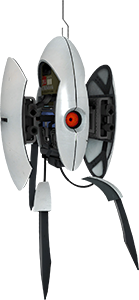
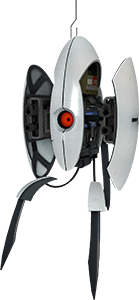
Flipped video, code cleanup

diff --git a/turret-security/site.js b/turret-security/site.js
@@ -1,11 +1,10 @@
-var video = $('video')[0];
 var $motionBox = $('.motion-box');
 var $turret = $('img');
 
 var scale = 10;	// capture resolution over motion resolution
-var isTargetLost = true;
-var isKilled = false;
-
+var isActivated = false;
+var isTargetInSight = false;
+var isKnockedOver = false;
 var lostTimeout;
 
 function initSuccess() {
@@ -17,64 +16,74 @@ function initError() {
 }
 
 function startComplete() {
+	setTimeout(activate, 500);
+}
+
+function activate() {
+	isActivated = true;
 	play('activated');
 }
 
 function capture(payload) {
-	if (isKilled) {
+	if (!isActivated || isKnockedOver) {
 		return;
 	}
 
 	var box = payload.motionBox;
 	if (box) {
-		var left = box.x.min * scale + 1;
+		// video is flipped, so we're positioning from right instead of left
+		var right = box.x.min * scale + 1;
 		var top = box.y.min * scale + 1;
 		var width = (box.x.max - box.x.min) * scale;
 		var height = (box.y.max - box.y.min) * scale;
 
 		$motionBox.css({
 			display: 'block',
-			left: left,
+			right: right,
 			top: top,
 			width: width,
 			height: height
 		});
 
-		if (isTargetLost) {
+		if (!isTargetInSight) {
+			isTargetInSight = true;
 			play('i-see-you');
-			isTargetLost = false;
 		} else {
 			play('fire');
 		}
+
 		clearTimeout(lostTimeout);
 		lostTimeout = setTimeout(declareLost, 2000);
 	}
 
+	// video is flipped, so (0, 0) is at top right
 	if (payload.checkMotionPixel(0, 0)) {
-		killTurret();
+		knockOver();
 	}
+}
+
+function declareLost() {
+	isTargetInSight = false;
+	play('target-lost');
+}
+
+function knockOver() {
+	isKnockedOver = true;
+	clearTimeout(lostTimeout);
+
+	$turret.addClass('knocked-over');
+	$motionBox.hide();
+
+	play('ow');
 }
 
 function play(audioId) {
 	$('#audio-' + audioId)[0].play();
-	console.log(audioId);
-}
-
-function declareLost() {
-	play('target-lost');
-	isTargetLost = true;
-}
-
-function killTurret() {
-	isKilled = true;
-	clearTimeout(lostTimeout);
-	$motionBox.hide();
-	$turret.addClass('killed');
-	play('ow');
 }
 
 DiffCamEngine.init({
-	video: video,
+	video: document.getElementById('video'),
+	pixelDiffThreshold: 16,
 	includeMotionBox: true,
 	includeMotionPixels: true,
 	initSuccessCallback: initSuccess,

diff --git a/turret-security/site.css b/turret-security/site.css
@@ -13,12 +13,12 @@ body {
 
 img {
 	position: absolute;
-	left: 10px;
+	right: 10px;
 	top: -160px;
 }
 
-.killed {
-	transform: rotate(-450deg);
+.knocked-over {
+	transform: rotate(450deg);
 	transition: transform 1s;
 }
 
@@ -28,6 +28,7 @@ video {
 	top: 0;
 	width: 640px;
 	height: 480px;
+	transform: scaleX(-1); /* flip video, like a mirror */
 }
 
 .motion-box {

diff --git a/turret-security/index.html b/turret-security/index.html
@@ -12,7 +12,7 @@
 		<!--
 			Image and audio assets taken from Portal Wiki (http://theportalwiki.com/)
 			under the Attribution 3.0 Unported (CC BY 3.0) license (http://creativecommons.org/licenses/by/3.0/).
-			Changes made: turret.png - horizontal flip, whitespace cropped.
+			Changes made: turret.png - whitespace cropped
 		-->
 
 		<div class="wrapper">
